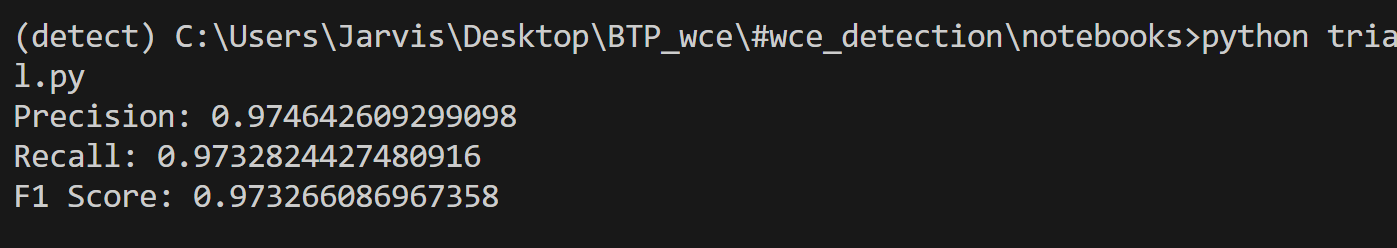
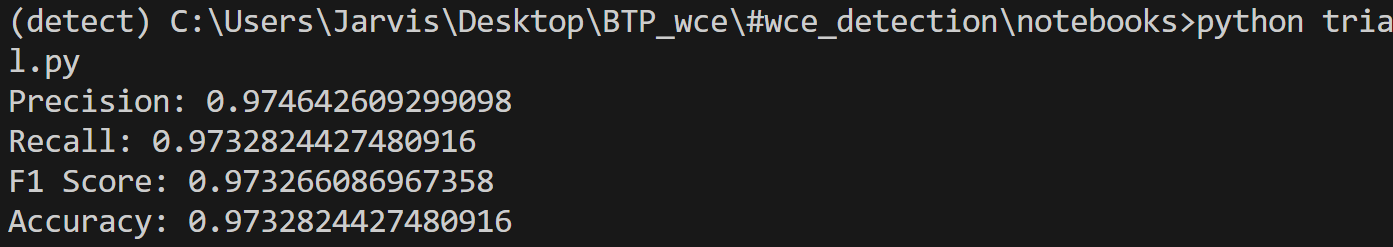
edits

Changed region(s): [[0.0, 0.0283, 1.0, 0.9636]]

diff --git a/README.md b/README.md
@@ -4,7 +4,7 @@
 
 | Dataset    | Metric                                  | Value           |
 | ---------- | --------------------------------------- | --------------- |
-| Validation | Classification Accuracy                 | 97.46%          |
+| Validation | Classification Accuracy                 | 97.33%          |
 | Validation | Classification Recall                   | 97.33%          |
 | Validation | Classification F1-Score                 | 97.33%          |
 | Validation | Detection Average Precision             | 76.8%           |
